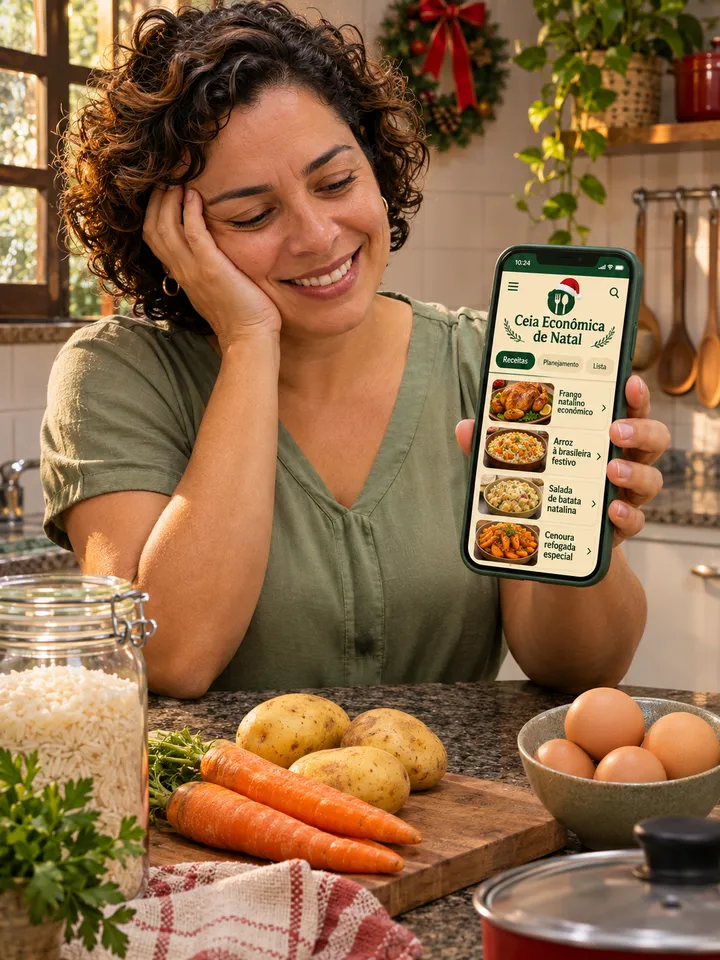
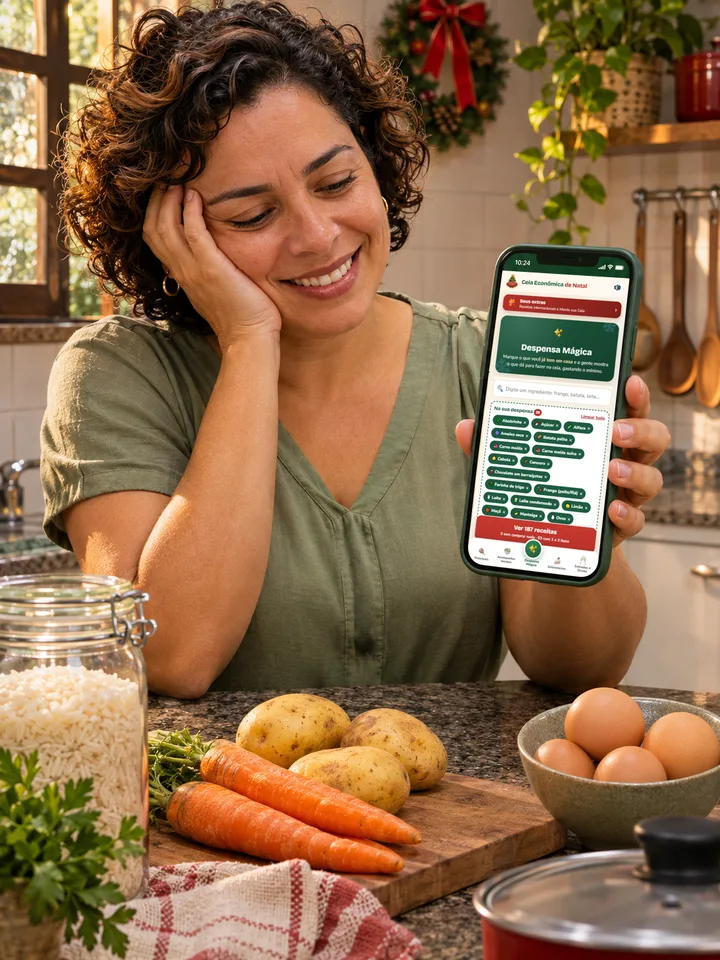
V1: carrossel de exemplos volta ao original, demo sem tela branca no início, novas fotos com o app real
Claude-Session: https://claude.ai/code/session_012D3HE3v3SXisXWmQKJ8WBn

Changed region(s): [[0.6417, 0.2812, 0.8861, 0.625]]

diff --git a/index.html b/index.html
@@ -180,7 +180,9 @@ button{font:inherit;color:inherit;background:none;border:0;cursor:pointer}
 .cel__sinal b::after{content:"";position:absolute;inset:1px 25% 1px 1px;background:#111;border-radius:1px}
 .cel__vista{position:relative;width:100%;aspect-ratio:390/844;overflow:hidden}
 .cel__vista img{display:block;width:100%;height:100%;object-fit:cover;object-position:top}
-.cel__vista iframe{position:absolute;top:0;left:0;width:390px;height:844px;border:0;transform:scale(var(--esc));transform-origin:0 0;pointer-events:none}
+.cel__vista iframe{position:absolute;top:0;left:0;width:390px;height:844px;border:0;transform:scale(var(--esc));transform-origin:0 0;pointer-events:none;opacity:0;transition:opacity .35s ease;background:transparent}
+.cel__vista iframe.pronto{opacity:1}
+.cel__capa{position:absolute;inset:0}
 .cel__ao-vivo{position:absolute;top:-11px;right:-6px;z-index:3;background:var(--red);color:#fff;font-size:11px;font-weight:800;padding:3px 9px;border-radius:99px;box-shadow:0 4px 10px rgba(0,0,0,.25)}
 /* ---------- Como usar ---------- */
 .how{display:flex;flex-direction:column;gap:22px;margin-top:16px}
@@ -360,8 +362,7 @@ mark.mt{background:linear-gradient(transparent 55%,#ffd0a0 55%);color:inherit;pa
 .pv-carrossel{position:relative;overflow:hidden;border-radius:18px}
 .pv-carrossel__trilho{display:flex;transition:transform .4s ease}
 .pv-carrossel__slide{min-width:100%;padding:0 2px}
-.pv-carrossel__slide{padding:14px 2px 4px}
-.pv-carrossel__tag{max-width:86%;text-align:center;line-height:1.3}
+.pv-carrossel__slide .slot{aspect-ratio:4/5}
 .pv-carrossel__tag{display:table;margin:8px auto 0;background:#fff;border-radius:99px;padding:4px 12px;font-size:12.5px;font-weight:700;box-shadow:var(--shadow)}
 .pv-carrossel__seta{position:absolute;top:42%;width:36px;height:36px;border-radius:50%;background:#fff;box-shadow:var(--shadow);font-size:22px;font-weight:800;z-index:4}
 .pv-carrossel__seta--ant{left:6px}.pv-carrossel__seta--prox{right:6px}
@@ -612,33 +613,38 @@ function appDemo(largura, extra = "") {
   const esc = (largura / 390).toFixed(4);
   const url = `${CONFIG.appDemoUrl}${CONFIG.appDemoUrl.includes("?") ? "&" : "?"}demo=1&moldura=0&auto=0${extra}`;
   return `<div class="cel cel--demo" style="--w:${largura}px;--esc:${esc}">
-    <div class="cel__tela">${celTopo}<div class="cel__vista"><iframe data-src="${url}" title="Demonstração do aplicativo Ceia Econômica de Natal" loading="lazy" tabindex="-1"></iframe></div></div>
+    <div class="cel__tela">${celTopo}<div class="cel__vista"><img class="cel__capa" src="img/app-inicio.webp" alt="" decoding="async"><iframe data-src="${url}" title="Demonstração do aplicativo Ceia Econômica de Natal" loading="lazy" tabindex="-1"></iframe></div></div>
     <span class="cel__ao-vivo">● Ao vivo</span>
   </div>`;
 }
 function appPrint(arquivo, largura, alt) {
   return `<div class="cel" style="--w:${largura}px"><div class="cel__tela">${celTopo}<div class="cel__vista"><img src="img/${arquivo}" alt="${alt}" loading="lazy" decoding="async"></div></div></div>`;
 }
-/* só carrega e só roda a demo enquanto ela está visível na tela */
+/* a demo começa a carregar um pouco antes de chegar na tela, só aparece quando já está desenhada
+   (até lá fica a imagem da primeira tela) e só roda enquanto está visível */
+const demoCarrega = "IntersectionObserver" in window ? new IntersectionObserver(es => es.forEach(e => {
+  if (e.isIntersecting && !e.target.src) { e.target.src = e.target.dataset.src; demoCarrega.unobserve(e.target); }
+}), { rootMargin: "900px 0px" }) : null;
 const demoObs = "IntersectionObserver" in window ? new IntersectionObserver(es => es.forEach(e => {
-  const f = e.target, w = () => f.contentWindow;
-  if (e.isIntersecting) {
-    if (!f.src) {
-      f.src = f.dataset.src;
-      f.addEventListener("load", () => [300, 900, 2000].forEach(t => setTimeout(() => f.dataset.vis === "1" && w() && w().postMessage("ceia-demo:continuar", "*"), t)));
-    }
-    f.dataset.vis = "1";
-    if (w()) w().postMessage("ceia-demo:continuar", "*");
-  } else {
-    f.dataset.vis = "0";
-    if (w()) w().postMessage("ceia-demo:pausar", "*");
-  }
+  const f = e.target;
+  f.dataset.vis = e.isIntersecting ? "1" : "0";
+  if (f.contentWindow && f.classList.contains("pronto")) f.contentWindow.postMessage(e.isIntersecting ? "ceia-demo:continuar" : "ceia-demo:pausar", "*");
 }), { threshold: 0.25 }) : null;
-function ligarDemos(root) {
-  root.querySelectorAll(".cel--demo iframe").forEach(f => {
-    if (demoObs) demoObs.observe(f); else f.src = f.dataset.src.replace("&auto=0", "");
+window.addEventListener("message", e => {
+  if (e.data !== "ceia-demo:pronto") return;
+  document.querySelectorAll(".cel--demo iframe").forEach(f => {
+    if (f.contentWindow !== e.source) return;
+    f.classList.add("pronto");
+    if (f.dataset.vis === "1") f.contentWindow.postMessage("ceia-demo:continuar", "*");
   });
-  return () => root.querySelectorAll(".cel--demo iframe").forEach(f => demoObs && demoObs.unobserve(f));
+});
+function ligarDemos(root) {
+  const fs = [...root.querySelectorAll(".cel--demo iframe")];
+  fs.forEach(f => {
+    if (demoObs) { demoCarrega.observe(f); demoObs.observe(f); }
+    else { f.src = f.dataset.src.replace("&auto=0", ""); f.classList.add("pronto"); }
+  });
+  return () => fs.forEach(f => { if (demoObs) { demoCarrega.unobserve(f); demoObs.unobserve(f); } });
 }
 
 /* =========================================================
@@ -1042,16 +1048,16 @@ function salesPage() {
 
     <!-- 13 · VEJA COMO USAM (carrossel) -->
     <div class="sec sec--pessego">
-      <h2 class="tit">Veja por dentro do <mark class="mt">aplicativo</mark>…</h2>
+      <h2 class="tit">Veja como as famílias <mark class="mt">usam o app</mark>…</h2>
       <div class="pv-carrossel" data-carrossel>
         <div class="pv-carrossel__trilho">
-          ${[["exemplo-1.webp", "Passo a passo: toque para marcar o que já fez"], ["exemplo-2.webp", "Pratos principais com foto, tempo e rendimento"], ["exemplo-3.webp", "Sobremesas de Natal com foto e tempo de preparo"]].map(([f, t]) => `<figure class="pv-carrossel__slide">${appPrint(f, 220, t)}<figcaption class="pv-carrossel__tag"><img src="img/ui/lampada.webp" alt="" width="24" height="24"> ${t}</figcaption></figure>`).join("")}
+          ${[1, 2, 3].map(i => `<figure class="pv-carrossel__slide">${slot(`exemplo-${i}.webp`, "4 / 5", `Exemplo de uso ${i}: print de conversa ou da tela do app mostrando as receitas encontradas`)}<span class="pv-carrossel__tag"><img src="img/ui/lampada.webp" alt="" width="24" height="24"> Exemplo de uso</span></figure>`).join("")}
         </div>
         <button class="pv-carrossel__seta pv-carrossel__seta--ant" type="button" data-dir="-1" aria-label="Anterior">‹</button>
         <button class="pv-carrossel__seta pv-carrossel__seta--prox" type="button" data-dir="1" aria-label="Próximo">›</button>
       </div>
       <div class="pv-carrossel__pontos">${[0, 1, 2].map(i => `<i${i ? "" : ' class="on"'}></i>`).join("")}</div>
-      <p class="pv-carrossel__nota">Telas reais do aplicativo.</p>
+      <p class="pv-carrossel__nota">Exemplos ilustrativos de como o app é usado no dia a dia.</p>
 
       <!-- 14 · PAGAMENTO ÚNICO -->
       <div class="aviso">

diff --git a/app-demo/js/demo.js b/app-demo/js/demo.js
@@ -38,7 +38,7 @@
     .demo-toque.aperta::after{animation:demoOnda .45s ease-out forwards}
     @keyframes demoOnda{from{transform:scale(1);opacity:.9}to{transform:scale(2.3);opacity:0}}
     .demo-foco{outline:3px solid rgba(30,91,63,.45)!important;outline-offset:2px}
-    .demo-cortina{position:fixed;inset:0;z-index:2147482000;background:#fff;opacity:0;pointer-events:none;transition:opacity .35s ease}
+    .demo-cortina{position:fixed;inset:0;z-index:2147482000;background:var(--creme, #FFF9F0);opacity:0;pointer-events:none;transition:opacity .35s ease}
     .demo-cortina.on{opacity:1}
     body.demo-moldura::after{content:"";position:fixed;inset:9px;z-index:2147482500;pointer-events:none;
       border-radius:40px;box-shadow:0 0 0 40px #141414,inset 0 0 0 2px #3a3a3a}
@@ -247,17 +247,23 @@
 
   async function rodar() {
     let inicio = PASSO_INICIAL;
+    let primeira = true;
     for (;;) {
       const v = ++volta;
       window.__demoVolta = v;
       timers.forEach(clearTimeout); timers.clear();
       try {
-        cortina.classList.add('on');
-        await dormir(380);
+        // a cortina só aparece entre uma volta e outra (na primeira o app já começa pronto)
+        if (!primeira) { cortina.classList.add('on'); await dormir(380); }
         API.resetar();
         preparar(inicio);
         await dormir(80);
         cortina.classList.remove('on');
+        if (primeira) {
+          primeira = false;
+          // avisa a página que a demo já está desenhada (ela só mostra o iframe depois disso)
+          requestAnimationFrame(() => requestAnimationFrame(() => { try { parent.postMessage('ceia-demo:pronto', '*'); } catch (e) {} }));
+        }
         while (pausado()) await dormir(200);
         for (let i = inicio - 1; i < ETAPAS.length; i++) await ETAPAS[i](v);
         await espera(600, v);
